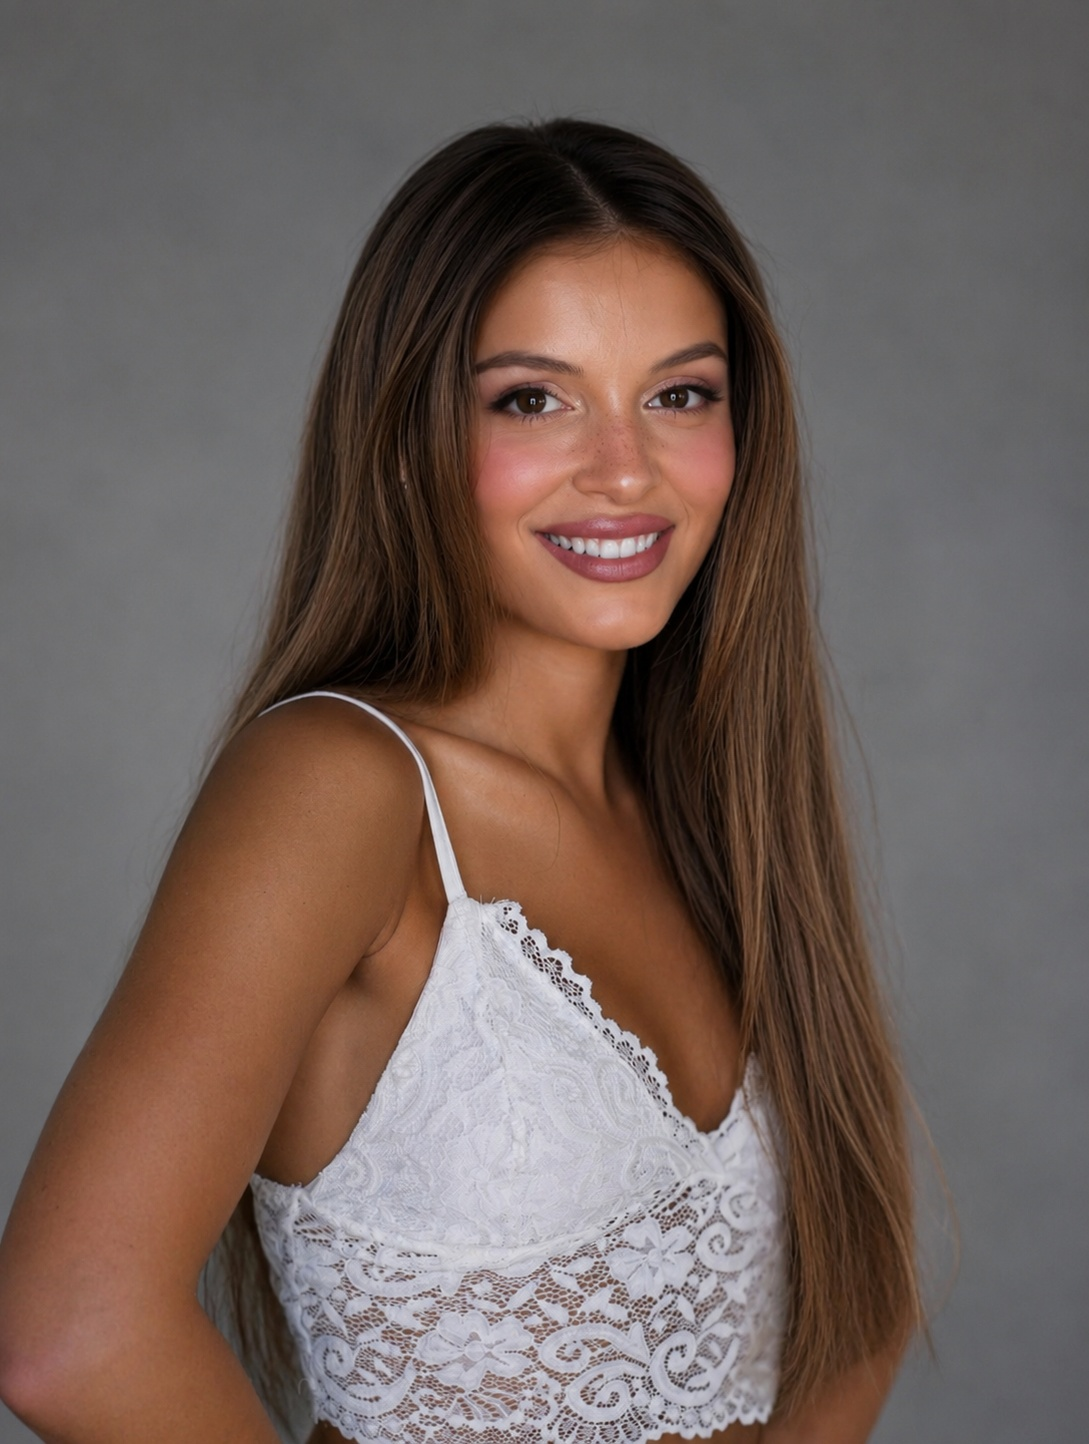
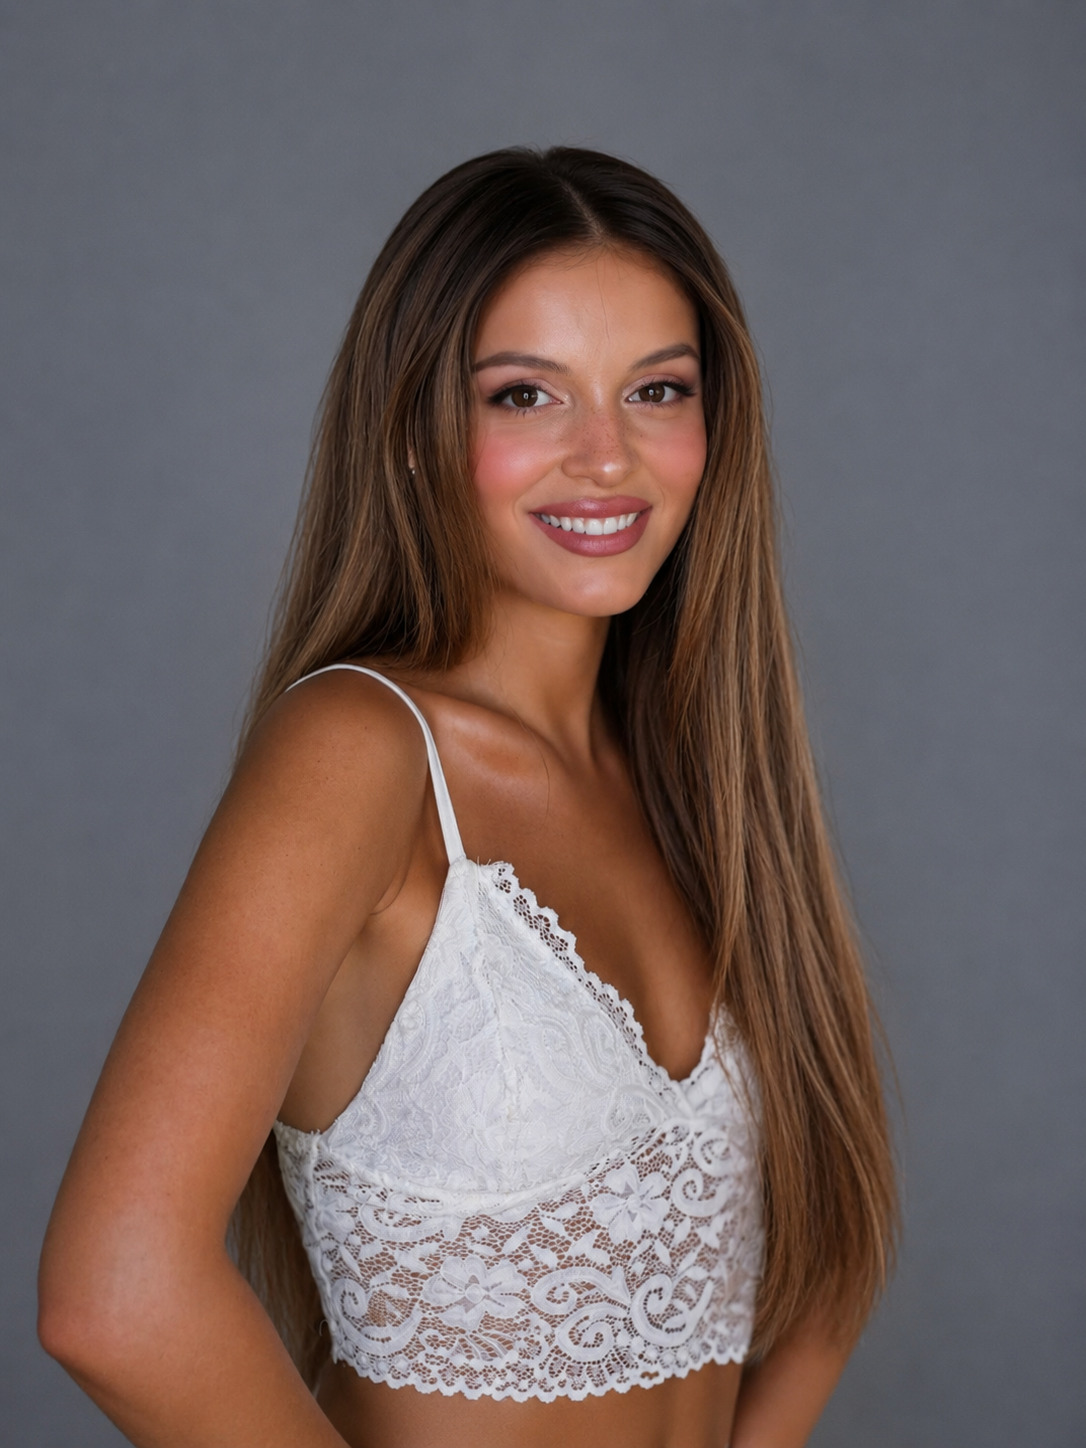
Update talent profiles and Michal bio

Changed region(s): [[0.0, 0.0623, 0.8508, 1.0], [0.2431, 0.5609, 0.3039, 0.6856]]

diff --git a/data/talent/index.js b/data/talent/index.js
@@ -155,7 +155,7 @@ export const talentList = [
     profileImage: '/images/talent/michal-bendavid/profile.jpg',
     gallery:      [],
 
-    bioHe: 'יוצרת תוכן ומשפיענית בתחום הביוטי, האופנה והלייפסטייל. עולה חדשה מאטלנטה ודוברת אנגלית שוטפת. בתוכן שלה משתפת רגעים מהיום-יום, סטייל אישי, והמלצות.',
+    bioHe: 'יוצרת תוכן ומשפיענית בתחומי הביוטי, האופנה והלייף סטייל, עם זווית בינלאומית ייחודית שמחברת בין התרבות הישראלית לאמריקאית. מיכל מביאה למסך שילוב של סטייל אישי, אותנטיות, הומור ורגעים אמיתיים מחיי היום יום.\nבנוסף, מיכל יוצרת תוכן גם בשפה האנגלית ומנחה את הפודקאסט “Hetzi חצי”, שצבר מיליוני צפיות ברשתות.',
     bioEn: null,
 
     instagram: 'https://www.instagram.com/michalbd1/',
@@ -210,7 +210,7 @@ export const talentList = [
     location: 'באר יעקב',
     birthDate: '1996-10-10',
 
-    profileImage: '/images/talent/ordan-nahari/profile-2026-06.jpg',
+    profileImage: '/images/talent/ordan-nahari/profile.jpg',
     // Crop focus override — source photo has excess empty space above the
     // head; shift the visible window down to bring her higher in the frame.
     // All other talents keep the TalentImage default ('center top').
